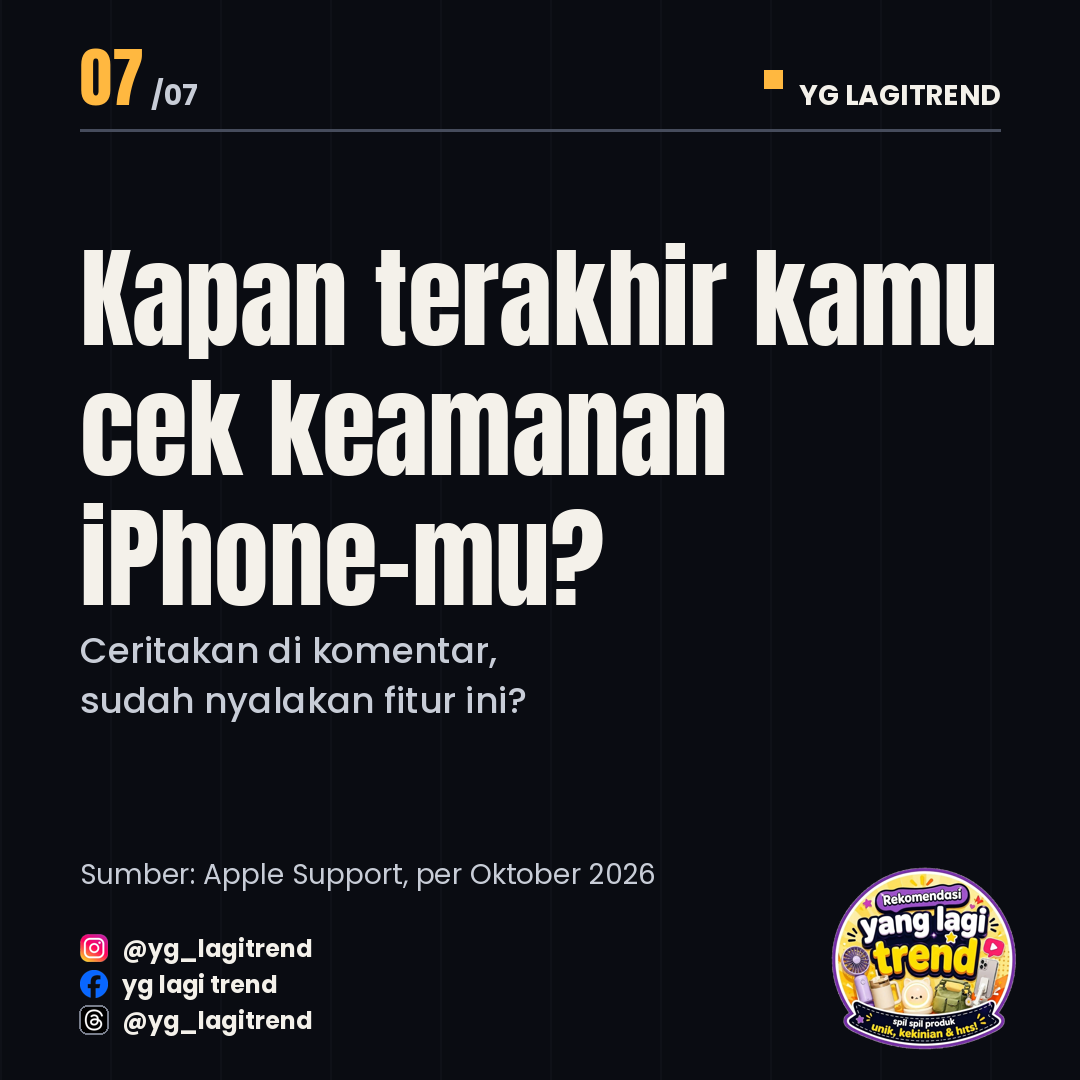
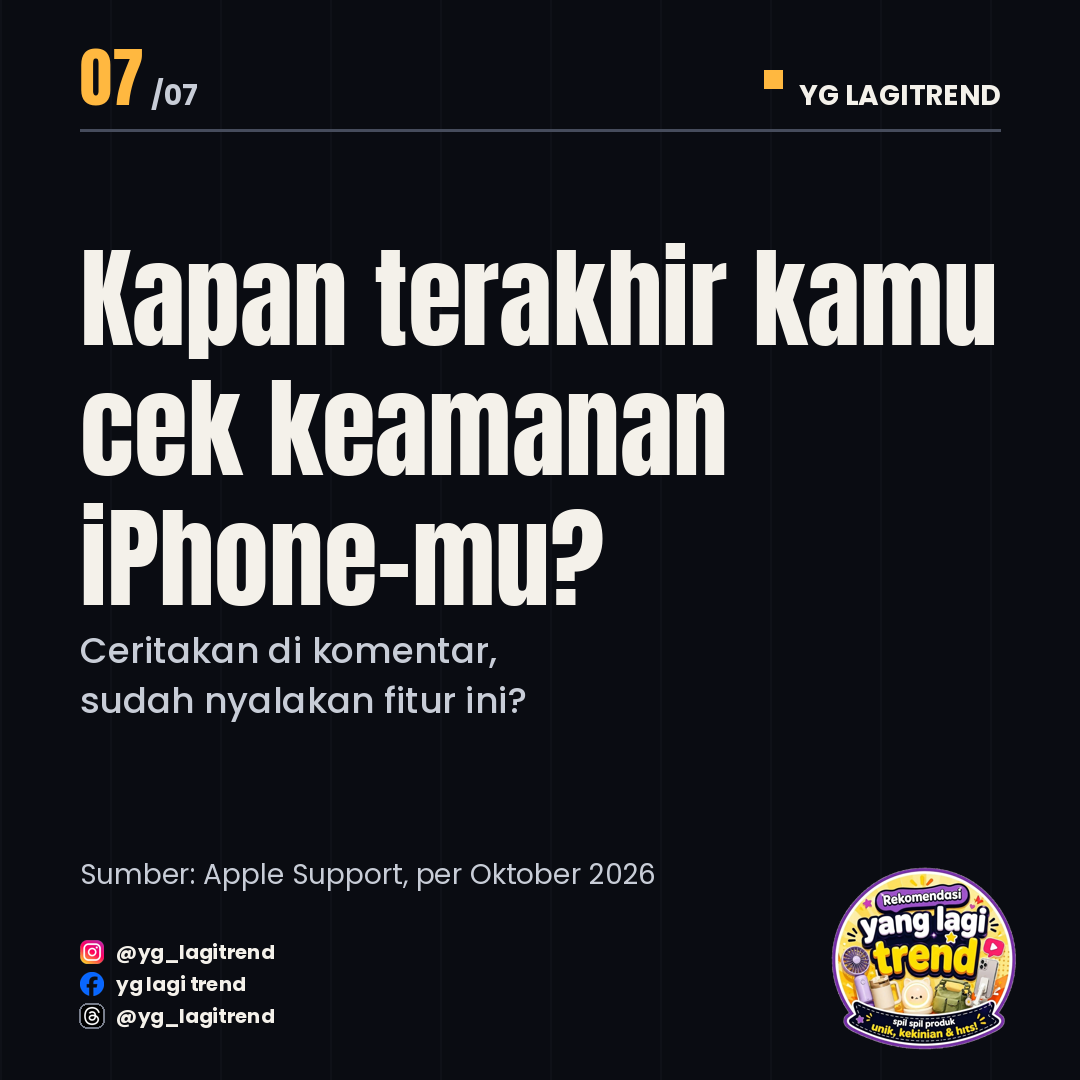
Identitas 20px, ikon 24px

Changed region(s): [[0.0611, 0.8556, 0.3056, 0.9778]]

diff --git a/template/car_template_v2.py b/template/car_template_v2.py
@@ -44,7 +44,7 @@ def logo(im,cx,cy,r=95,onacc=False):
         d.ellipse([cx-r,cy-r,cx+r,cy+r],outline=INKD if onacc else ACC,width=5);d.text((cx,cy),"LOGO",font=F(PB,30),fill=INKD if onacc else ACC,anchor='mm')
 def identity(d,im,x,y0,dark=False,pitch=42):
     # y0 = titik tengah baris pertama; ikon dan teks disejajarkan di tengah baris
-    col=INKD if dark else WHITE;S=28
+    col=INKD if dark else WHITE;S=24
     for k,(ic,txt) in enumerate(IDENT):
         cy=y0+k*pitch
         pth=ICONDIR+ic+'.png'
@@ -52,8 +52,8 @@ def identity(d,im,x,y0,dark=False,pitch=42):
             g=Image.open(pth).convert('RGBA');g.thumbnail((S,S));im.paste(g,(x+(S-g.width)//2,cy-g.height//2),g)
             if ic=='th' and not dark:d.rounded_rectangle([x-1,cy-S//2-1,x+S,cy+S//2],radius=8,outline=(120,126,140),width=2)
         else:
-            d.rounded_rectangle([x,cy-S//2,x+S,cy+S//2],radius=7,outline=col,width=2);d.text((x+S//2,cy),{'ig':'IG','fb':'FB','th':'TH'}[ic],font=F(PB,14),fill=col,anchor='mm')
-        d.text((x+S+14,cy),txt,font=F(PB,24),fill=col,anchor='lm')
+            d.rounded_rectangle([x,cy-S//2,x+S,cy+S//2],radius=7,outline=col,width=2);d.text((x+S//2,cy),{'ig':'IG','fb':'FB','th':'TH'}[ic],font=F(PB,12),fill=col,anchor='mm')
+        d.text((x+S+12,cy),txt,font=F(PB,20),fill=col,anchor='lm')
 def frame(i,n,src=None,panel=False):
     im=Image.new('RGB',(W,H),BG);d=ImageDraw.Draw(im)
     for x in range(0,W,110):d.line([x,0,x,H],fill=(15,17,24),width=2)
@@ -63,14 +63,14 @@ def frame(i,n,src=None,panel=False):
     d.line([80,130,W-80,130],fill=LN,width=3)
     if not panel:
         if src:d.text((80,884),src,font=F(PR,28),fill=MUT,anchor='ls')
-        identity(d,im,80,948,False,36);logo(im,925,960,95)
+        identity(d,im,80,952,False,32);logo(im,925,960,95)
     return im,d
 def hook(i,n,title,hl,body):
     im,d=frame(i,n,panel=True);y=170;tf=F(AN,112)
     for l in wrap(d,title,tf,920):d.text((80,y),l,font=tf,fill=WHITE);y+=122
     y+=26
     hw=d.textlength(hl,font=tf);d.rectangle([72,y+14,72+hw+36,y+150],fill=ACC);d.text((90,y+10),hl,font=tf,fill=INKD)
-    d.rectangle([0,650,W,H],fill=ACC);lines(d,80,682,body,F(PB,36),INKD,780,50);identity(d,im,80,935,True,36)
+    d.rectangle([0,650,W,H],fill=ACC);lines(d,80,682,body,F(PB,36),INKD,780,50);identity(d,im,80,940,True,32)
     logo(im,915,870,105,True);return im
 def content(i,n,title,intro,items,src,numbered=True):
     im,d=frame(i,n,src);y=175;tf=F(AN,92)
